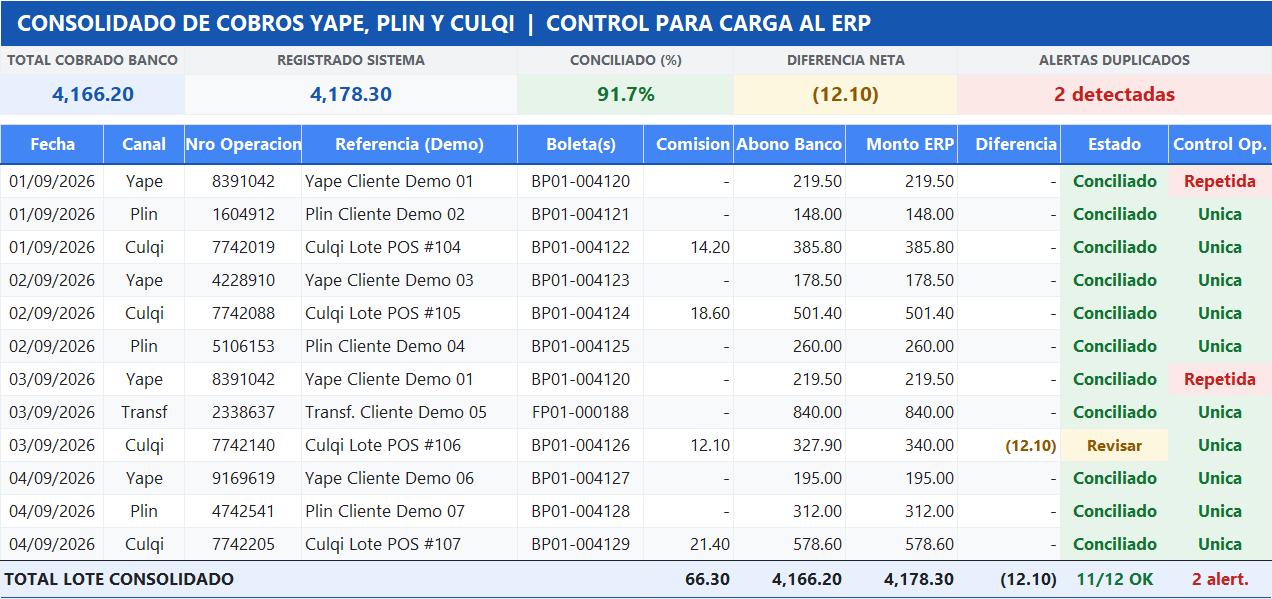
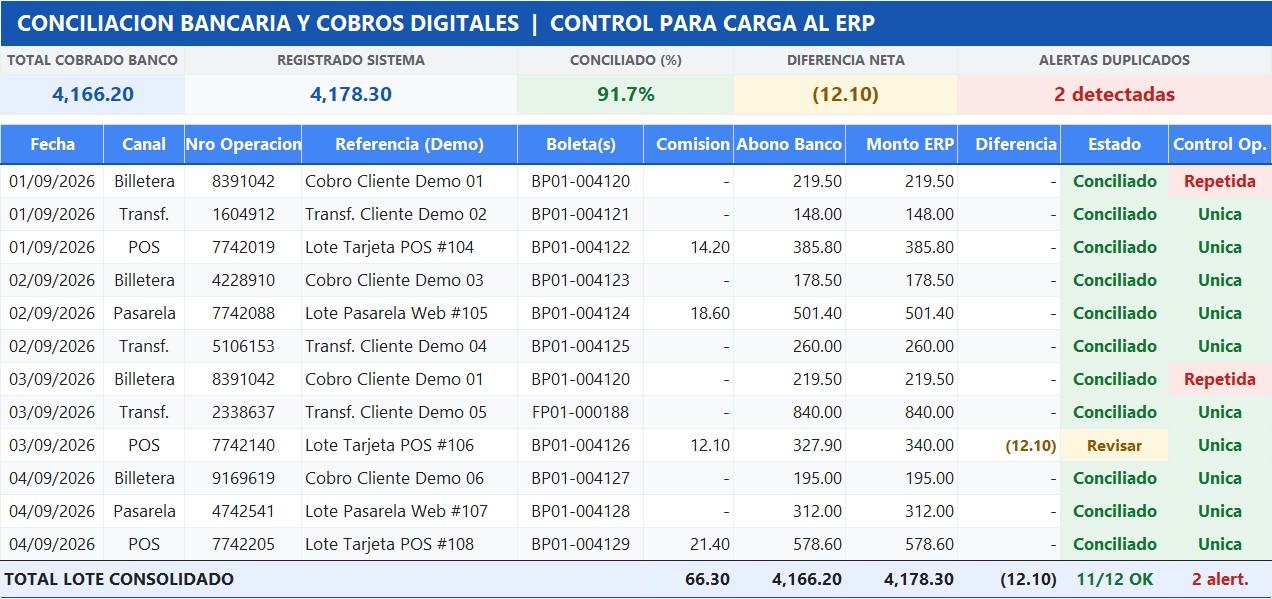
copy: conciliacion bancaria universal y consolidado automatico en web y muestras Excel

diff --git a/index.html b/index.html
@@ -4,20 +4,20 @@
   <meta charset="UTF-8">
   <meta name="viewport" content="width=device-width, initial-scale=1.0">
   <title>Control Financiero y Excel | Franco Guerrero</title>
-  <meta name="description" content="Automatizo reportes en Excel, consolido archivos por carpeta con Power Query, armo flujos de caja reales y ordeno cobros de Yape, Plin o Culqi.">
+  <meta name="description" content="Automatizo reportes en Excel, consolido múltiples archivos con Power Query, armo flujos de caja reales y ordeno conciliaciones bancarias.">
   
   <!-- Open Graph y Redes Sociales -->
   <meta property="og:type" content="website">
   <meta property="og:url" content="https://franco-g.github.io/">
   <meta property="og:title" content="Control Financiero y Excel | Franco Guerrero">
-  <meta property="og:description" content="Automatizo reportes en Excel, consolido archivos por carpeta con Power Query, armo flujos de caja reales y ordeno cobros de Yape, Plin o Culqi.">
+  <meta property="og:description" content="Automatizo reportes en Excel, consolido múltiples archivos con Power Query, armo flujos de caja reales y ordeno conciliaciones bancarias.">
   <meta property="og:image" content="https://franco-g.github.io/foto_perfil_circular_1x1.jpeg">
 
   <!-- Twitter Card -->
   <meta name="twitter:card" content="summary_large_image">
   <meta name="twitter:url" content="https://franco-g.github.io/">
   <meta name="twitter:title" content="Control Financiero y Excel | Franco Guerrero">
-  <meta name="twitter:description" content="Automatizo reportes en Excel, consolido archivos por carpeta con Power Query, armo flujos de caja reales y ordeno cobros de Yape, Plin o Culqi.">
+  <meta name="twitter:description" content="Automatizo reportes en Excel, consolido múltiples archivos con Power Query, armo flujos de caja reales y ordeno conciliaciones bancarias.">
   <meta name="twitter:image" content="https://franco-g.github.io/foto_perfil_circular_1x1.jpeg">
   
   <link rel="icon" type="image/png" href="favicon.png?v=7.0">
@@ -110,7 +110,7 @@
             <h1>Automatizo tus reportes en Excel</h1>
             <p class="hero-subtitle">Menos horas manuales y más control de tu negocio.</p>
             <p class="hero-text">
-              Ordeno tus Excels desordenados, consolido cobros de Yape, Plin o Culqi y armo tu flujo de caja mensual y anual, sin cambiar tu sistema.
+              Ordeno tus Excels desordenados, agilizo tus conciliaciones bancarias y armo tu flujo de caja mensual y anual, sin cambiar tu sistema.
             </p>
             <div class="btn-group">
               <a href="#diagnostico-card" class="btn btn-primary shimmer-btn" onclick="goToDiagnostic(); return false;">Consultar</a>
@@ -150,7 +150,7 @@
           <div class="metric-card">
             <div class="metric-num" data-ticker-target="4" data-ticker-suffix=" meses">4 meses</div>
             <div class="metric-caption">Al día en 2 semanas</div>
-            <div class="metric-sub">Consolidado de Yape, Plin y Culqi con registro en sistema.</div>
+            <div class="metric-sub">Conciliación bancaria y cobros digitales cargados al sistema.</div>
           </div>
         </div>
       </div>
@@ -168,7 +168,7 @@
           <div class="flow-tabs" role="tablist" aria-label="Elegir ejemplo de automatización">
             <button type="button" class="flow-tab-btn is-active" role="tab" aria-selected="true" onclick="setWorkflowCase(0)">Flujo de caja</button>
             <button type="button" class="flow-tab-btn" role="tab" aria-selected="false" onclick="setWorkflowCase(1)">Unificar varios Excel</button>
-            <button type="button" class="flow-tab-btn" role="tab" aria-selected="false" onclick="setWorkflowCase(2)">Yape, Plin y Culqi</button>
+            <button type="button" class="flow-tab-btn" role="tab" aria-selected="false" onclick="setWorkflowCase(2)">Conciliación bancaria</button>
             <button type="button" class="flow-tab-btn" role="tab" aria-selected="false" onclick="setWorkflowCase(3)">Reportes en línea</button>
           </div>
         </div>
@@ -260,7 +260,7 @@
             <button type="button" class="excel-stage-btn" id="kitchen-clean-btn" onclick="openCurrentExcelSample()" aria-label="Ampliar muestra propia actual">
               <img src="muestras/muestra-flujo-cuenta10.png" alt="Muestra propia en Excel de flujo de caja real" class="hero-showcase-slide is-active" data-index="0">
               <img src="muestras/muestra-consolidacion-libros.png" alt="Muestra propia en Excel de consolidado automático de Excels por carpeta" class="hero-showcase-slide" data-index="1" loading="lazy">
-              <img src="muestras/muestra-conciliacion-pasarelas.png" alt="Muestra propia en Excel de consolidado de Yape, Plin y Culqi" class="hero-showcase-slide" data-index="2" loading="lazy">
+              <img src="muestras/muestra-conciliacion-pasarelas.png" alt="Muestra propia en Excel de conciliación bancaria y cobros digitales" class="hero-showcase-slide" data-index="2" loading="lazy">
               <div id="kitchen-cloud-preview" class="kitchen-cloud-preview" hidden>
                 <div class="cloud-sheet-bar">
                   <span class="raw-sheet-title">Google Sheets compartido · Reportes al día</span>
@@ -320,7 +320,7 @@
           <!-- Servicio 2: Unificar varios Excel -->
           <article class="card service-bento-card">
             <div class="card-top">
-              <span class="card-category">Carpetas automáticas</span>
+              <span class="card-category">Consolidado automático</span>
               <span class="mini-badge">Desde S/ 200 · 2 a 4 días</span>
             </div>
             <h3>Unificar varios Excel</h3>
@@ -338,21 +338,21 @@
             </div>
           </article>
 
-          <!-- Servicio 3: Orden y registro de cobros -->
+          <!-- Servicio 3: Conciliación bancaria y cobros -->
           <article class="card service-bento-card">
             <div class="card-top">
-              <span class="card-category">Yape, Plin y Culqi</span>
+              <span class="card-category">Conciliación bancaria</span>
               <span class="mini-badge">Desde S/ 250 · 3 a 5 días</span>
             </div>
-            <h3>Orden y registro de cobros</h3>
-            <p class="project-context">Consolido tus reportes de pasarelas y bancos para ordenar comisiones y acelerar el registro en tu sistema.</p>
+            <h3>Conciliación y carga de cobros</h3>
+            <p class="project-context">Consolido tus extractos bancarios y cobros digitales para ordenar comisiones y acelerar el registro en tu sistema.</p>
             <ul class="project-bullets">
-              <li>Reúne cobros, comisiones y pendientes en una base limpia.</li>
+              <li>Reúne abonos, comisiones y pendientes en una base limpia.</li>
               <li>Prepara la carga automatizada sin digitar movimiento por movimiento.</li>
             </ul>
             <div class="card-footer-cta">
               <div class="tag-list-inline">
-                <span class="tag">Yape, Plin y Culqi</span>
+                <span class="tag">Bancos y pasarelas</span>
                 <span class="tag">Registro ERP</span>
               </div>
               <button type="button" class="service-card-link" onclick="quoteSpecificService('Cobros y registros')">Consultar →</button>
@@ -525,7 +525,7 @@
                   <label for="diag-source">4. ¿De dónde salen tus datos hoy?</label>
                   <select id="diag-source" name="source" onchange="updateDiagnosticEstimate()">
                     <option value="Reportes exportados de mi sistema" selected>Reportes exportados de mi sistema</option>
-                    <option value="Reportes de Yape, Plin o Culqi">Reportes de Yape, Plin o Culqi</option>
+                    <option value="Reportes bancarios y pasarelas de pago">Reportes bancarios y pasarelas de pago</option>
                     <option value="Extractos bancarios y hojas de Excel">Extractos bancarios y hojas de Excel</option>
                     <option value="Google Sheets o varios archivos sueltos">Google Sheets o varios archivos sueltos</option>
                   </select>
@@ -571,7 +571,7 @@
 
                 <div class="form-field">
                   <label for="quote-goal">Detalle adicional (opcional)</label>
-                  <textarea id="quote-goal" name="goal" rows="2" placeholder="Ej. Flujo de caja en mi moneda, unificar Excels por carpeta o consolidar Yape/Plin/Culqi."></textarea>
+                  <textarea id="quote-goal" name="goal" rows="2" placeholder="Ej. Flujo de caja en mi moneda, unificar varios Excel o agilizar conciliaciones bancarias."></textarea>
                 </div>
 
                 <p class="form-reassurance">Llega directo a mi correo con tu diagnóstico. Te respondo en menos de 24 horas.</p>
@@ -669,7 +669,7 @@
         <div class="faq-list">
           <details class="faq-item" open>
             <summary>1. ¿Tengo que cambiar de sistema contable o instalar programas?</summary>
-            <p>No. Trabajo exclusivamente sobre los archivos que tu sistema, banco o pasarela ya exporta (Excel, reportes de Yape, Plin, Culqi o extractos bancarios). Todo corre en tu propio Excel o Google Sheets.</p>
+            <p>No. Trabajo exclusivamente sobre los archivos que tu sistema, banco o pasarela ya exporta (Excel, extractos bancarios o reportes de cobros digitales). Todo corre en tu propio Excel o Google Sheets.</p>
           </details>
           <details class="faq-item">
             <summary>2. ¿Cómo proteges la confidencialidad de mis archivos y clientes?</summary>
@@ -705,6 +705,6 @@
   </div>
 
   <!-- Controlador de Navegación e Interactividad -->
-  <script src="app.js?v=30.0"></script>
+  <script src="app.js?v=31.0"></script>
 </body>
 </html>

diff --git a/app.js b/app.js
@@ -252,7 +252,7 @@ const FORM_ENDPOINT = 'https://formspree.io/f/xgakqpok';
 const SERVICE_PLACEHOLDERS = {
   'Flujo de caja': 'Ej. Armar nuestro flujo de caja mensual y anual con Power Query y Power Pivot.',
   'Unificar Excels': 'Ej. Conectar una carpeta con nuestros Excels para sacar un consolidado de golpe.',
-  'Cobros y registros': 'Ej. Ordenar cobros de Yape, Plin o Culqi y preparar su registro automatizado.',
+  'Cobros y registros': 'Ej. Ordenar extractos bancarios y pasarelas de pago para acelerar el registro en sistema.',
   'Otro tema': 'Ej. Cuéntame brevemente qué archivo o reporte quieres ordenar y lo revisamos.'
 };
 
@@ -861,7 +861,7 @@ const GALLERY_SAMPLES = [
       ['Banco S/', '03-oct-26', 'ABONO CLIENTE FACT 412', 'PEN', '4820.00', false],
       ['Banco US$', '2026/10/04', 'INGRESO EXTERIOR REXT-11', 'USD', '1250.00', true],
       ['Egreso', '05/10/2026', 'PAGO PROV LOGISTICO', 'PEN', '-1980.00', true],
-      ['Pasarela', '06.10.26', 'DEPOSITO CULQI LOTE 04', 'PEN', '8129.51', false]
+      ['Pasarela', '06.10.26', 'DEPOSITO PASARELA LOTE 04', 'PEN', '8129.51', false]
     ],
     src: 'muestras/muestra-flujo-cuenta10.png',
     title: 'Flujo de caja real (ejemplo editable)',
@@ -878,7 +878,7 @@ const GALLERY_SAMPLES = [
     n3Desc: 'Junta todos los registros sin duplicados ni copiado manual.',
     n4Title: 'Carga masiva lista',
     n4Desc: 'Sube todo de golpe sin crear archivo por archivo cada vez.',
-    cat: 'Carpetas automáticas',
+    cat: 'Consolidado automático',
     badge: '+25 h/mes ahorradas',
     kpi: 'Un solo consolidado',
     beforeHtml: '<strong>Crear un archivo por cada Excel</strong> copiando columnas a mano cada periodo.',
@@ -900,31 +900,31 @@ const GALLERY_SAMPLES = [
     isCloud: false
   },
   {
-    n1Title: 'Reportes atrasados',
-    n1Desc: 'Cuatro meses sueltos de Yape, Plin, Culqi y extractos.',
-    n2Title: 'Consolidado de cobros',
-    n2Desc: 'Ordena lotes, comisiones y pendientes en una sola base.',
+    n1Title: 'Extractos atrasados',
+    n1Desc: 'Cuatro meses sueltos de bancos, tarjetas y pasarelas de pago.',
+    n2Title: 'Consolidado bancario',
+    n2Desc: 'Ordena abonos, comisiones y pendientes en una sola base.',
     n3Title: 'Registro en el sistema',
     n3Desc: 'Automatiza el ingreso al ERP sin digitar movimiento a movimiento.',
     n4Title: 'Al día en 2 semanas',
     n4Desc: 'Cuatro meses acumulados ordenados y cargados al sistema.',
-    cat: 'Yape, Plin y Culqi',
+    cat: 'Conciliación bancaria',
     badge: 'Consolidado + ERP',
     kpi: '4 meses en 2 semanas',
-    beforeHtml: '<strong>4 meses acumulados</strong> digitando boleta por boleta en el sistema.',
+    beforeHtml: '<strong>4 meses acumulados</strong> digitando movimiento por movimiento en el sistema.',
     afterHtml: '<strong>Consolidado claro y carga automatizada</strong> en el ERP en ~2 semanas.',
     afterScale: '0.14',
-    rawTitle: 'Reportes sueltos de pasarela sin ordenar (crudo)',
+    rawTitle: 'Extractos bancarios y pasarelas sin ordenar (crudo)',
     rawIssues: ['Comisión aparte', 'Lotes dispersos', 'Carga manual'],
-    rawHeaders: ['Fecha', 'Canal', 'Boleta', 'Bruto S/', 'Pendiente'],
+    rawHeaders: ['Fecha', 'Canal', 'Comprobante', 'Bruto', 'Pendiente'],
     rawRows: [
-      ['03/11/26', 'Culqi POS', 'B001-04169', '6940.00', 'Falta comisión', true],
-      ['04/11/26', 'Plin', 'B001-04216', '3510.00', 'Sin cruzar banco', true],
-      ['05/11/26', 'Culqi Web', 'B001-04261', '8420.00', 'Abono parcial', true],
-      ['13/11/26', 'Culqi POS', 'B001-04585', '1240.00', 'Sin registrar', true]
+      ['03/11/26', 'Tarjeta POS', 'B001-04169', '6940.00', 'Falta comisión', true],
+      ['04/11/26', 'Billetera', 'B001-04216', '3510.00', 'Sin cruzar banco', true],
+      ['05/11/26', 'Pasarela Web', 'B001-04261', '8420.00', 'Abono parcial', true],
+      ['13/11/26', 'Transferencia', 'B001-04585', '1240.00', 'Sin registrar', true]
     ],
     src: 'muestras/muestra-conciliacion-pasarelas.png',
-    title: 'Consolidado de Yape, Plin y Culqi para registro en sistema',
+    title: 'Conciliación bancaria y cobros digitales para registro en sistema',
     caption: 'Base ordenada con abonos, comisiones y pendientes lista para acelerar el registro automatizado.',
     service: 'Cobros y registros',
     isCloud: false
